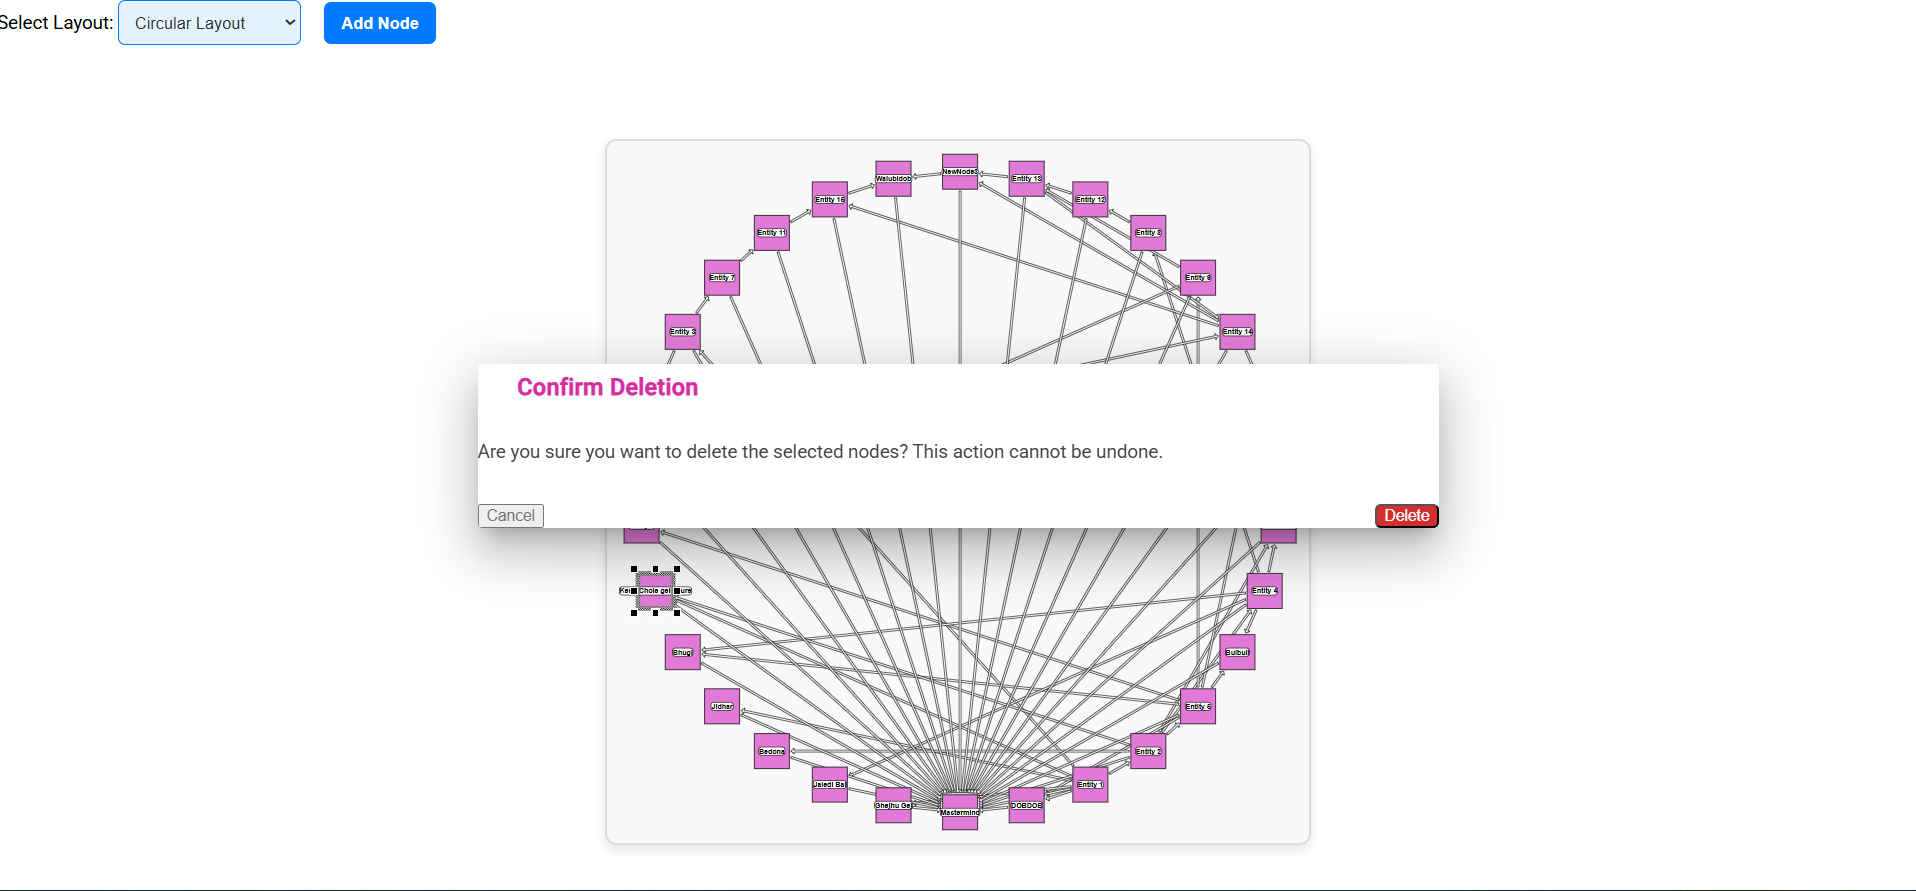
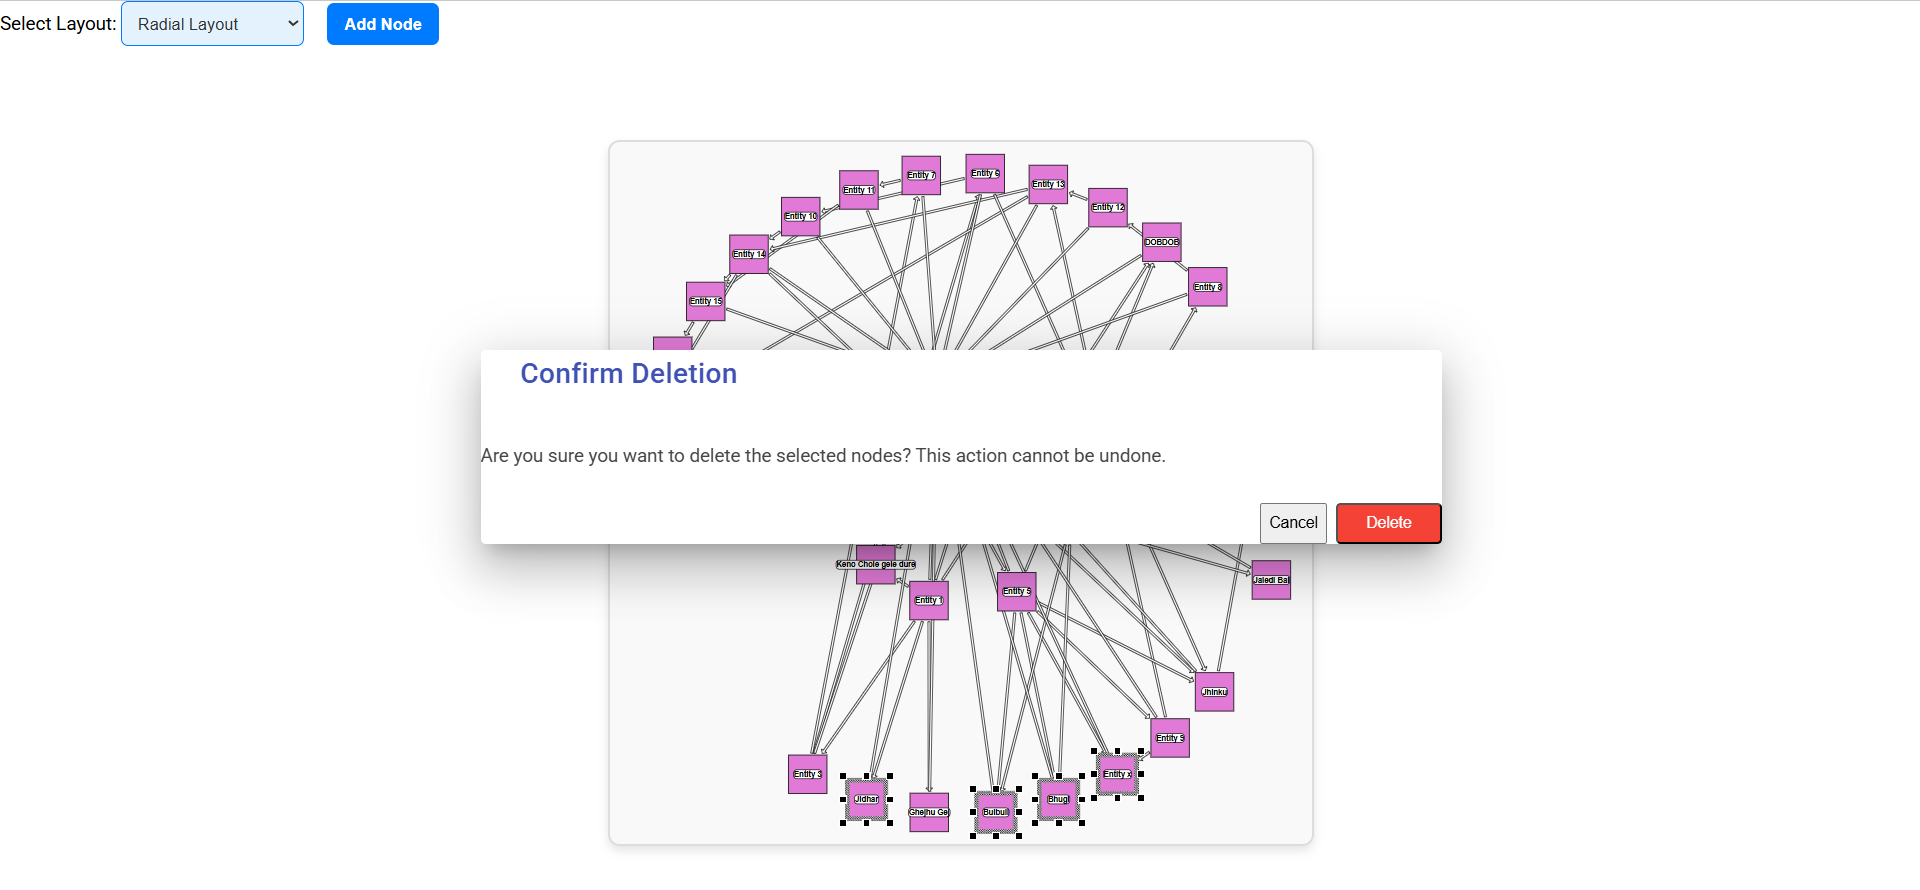
Delete nodes dialog modified, also some renaming in the dialog. change in the screenshot

diff --git a/client/src/app/delete-nodes-dialog/delete-nodes-dialog.component.css b/client/src/app/delete-nodes-dialog/delete-nodes-dialog.component.css
@@ -1,0 +1,111 @@
+/* Dialog Container */
+::ng-deep .mat-dialog-container {
+  display: flex;
+  flex-direction: column;
+  justify-content: center;
+  align-items: center;
+  min-height: 220px;
+  padding: 24px;
+  width: 400px;
+  border-radius: 8px;
+  background-color: #fff;
+  box-shadow: 0px 4px 10px rgba(0, 0, 0, 0.1);
+  text-align: center;
+}
+
+/* Title Styling */
+.dialog-title {
+  font-size: 24px;
+  font-weight: 500;
+  color: #3f51b5; /* Primary color */
+  margin-bottom: 16px;
+  display: flex;
+  align-items: center;
+  gap: 10px;
+}
+
+/* Warning Icon */
+.warning-icon {
+  font-size: 24px;
+  color: #d32f2f;
+}
+
+/* Content Styling */
+.dialog-content {
+  display: flex;
+  flex-direction: column;
+  gap: 16px;
+  font-size: 16px;
+  color: #444;
+  margin: 15px 0;
+  width: 100%;
+}
+
+/* Form Fields */
+.full-width {
+  width: 100%;
+}
+
+mat-form-field {
+  width: 100%;
+  margin-bottom: 16px;
+}
+
+mat-input {
+  font-size: 16px;
+}
+
+/* Error Messages */
+mat-error {
+  color: #f44336;
+  font-size: 14px;
+  margin-top: 4px;
+}
+
+/* Dropdown Styling */
+mat-select {
+  font-size: 16px;
+}
+
+/* Button Container */
+.dialog-actions {
+  display: flex;
+  justify-content: flex-end;
+  gap: 8px;
+  margin-top: 16px;
+  width: 100%;
+}
+
+/* Primary Button */
+button[color="primary"] {
+  background-color: #3f51b5;
+  color: white;
+  font-weight: 500;
+  padding: 8px 24px;
+  border-radius: 4px;
+  transition: background-color 0.3s ease;
+}
+
+button[color="primary"]:hover {
+  background-color: #303f9f;
+}
+
+button[color="primary"]:disabled {
+  background-color: #e0e0e0;
+  color: #9e9e9e;
+  cursor: not-allowed;
+}
+
+/* Warn Button (Cancel) */
+button[color="warn"] {
+  background-color: #f44336;
+  color: white;
+  font-weight: 500;
+  padding: 8px 24px;
+  border-radius: 4px;
+  transition: background-color 0.3s ease;
+}
+
+button[color="warn"]:hover {
+  background-color: #d32f2f;
+}

diff --git a/client/src/app/delete-nodes-dialog/delete-nodes-dialog.component.ts b/client/src/app/delete-nodes-dialog/delete-nodes-dialog.component.ts
@@ -1,0 +1,30 @@
+import { Component, Inject, OnInit } from '@angular/core';
+import { MAT_DIALOG_DATA, MatDialogModule, MatDialogRef } from '@angular/material/dialog';
+import { MatInputModule } from '@angular/material/input';
+import { FormControl, FormGroup, ReactiveFormsModule } from '@angular/forms';
+
+@Component({
+  selector: 'app-mat-dialog',
+  standalone: true,
+  imports: [MatDialogModule, MatInputModule, ReactiveFormsModule],
+  templateUrl: './delete-nodes-dialog.component.html',
+  styleUrl: './delete-nodes-dialog.component.css'
+})
+export class MatDialogComponent implements OnInit {
+  testForm !: FormGroup;
+  constructor(
+    private dialogRef: MatDialogRef<MatDialogComponent>,
+    @Inject(MAT_DIALOG_DATA) public data: any) { }
+
+  ngOnInit() {
+    this.testForm = new FormGroup({});
+  }
+  
+  onConfirm() {
+    this.dialogRef.close(true);
+  }
+
+  onCancel() {
+    this.dialogRef.close(false);
+  }
+}

diff --git a/client/src/app/services/graph.service.ts b/client/src/app/services/graph.service.ts
@@ -4,7 +4,7 @@ import { CircularLayout, HierarchicLayout, OrganicLayout, OrthogonalLayout, Radi
 import { ApiCallsService } from './api-calls.service';
 import { GraphData, Node, Ownership } from '../models/graph-data';
 import { MatDialog, MatDialogRef } from '@angular/material/dialog';
-import { MatDialogComponent } from '../mat-dialog/mat-dialog.component';
+import { MatDialogComponent } from '../delete-nodes-dialog/delete-nodes-dialog.component';
 
 @Injectable({
   providedIn: 'root'

diff --git a/client/src/app/delete-nodes-dialog/delete-nodes-dialog.component.html b/client/src/app/delete-nodes-dialog/delete-nodes-dialog.component.html
@@ -1,0 +1,10 @@
+<h2 mat-dialog-title class="dialog-title">
+  Confirm Deletion
+</h2>
+
+<p class="dialog-content">Are you sure you want to delete the selected nodes? This action cannot be undone.</p>
+
+<div class="dialog-actions">
+  <button mat-button class="cancel-btn" (click)="onCancel()">Cancel</button>
+  <button mat-button color="warn" class="confirm-btn" (click)="onConfirm()">Delete</button>
+</div>

diff --git a/client/src/app/Helpers/graph-control.ts b/client/src/app/Helpers/graph-control.ts
@@ -16,7 +16,11 @@ export class GraphControl {
 
   cleanUp() {
     this.graphComponent.cleanUp();
+    this.graphComponent.inputMode = null;
+    this.graphComponent.graph.clear();
+    this.graphComponent = null as any;
     //remove listeners;
+    this.itemsDeleting.complete();
   }
 
   createGraph(graphData: GraphData, elementId: string): void {

diff --git a/api/obj/Debug/net8.0/api.AssemblyInfo.cs b/api/obj/Debug/net8.0/api.AssemblyInfo.cs
@@ -13,7 +13,7 @@ using System.Reflection;
 [assembly: System.Reflection.AssemblyCompanyAttribute("api")]
 [assembly: System.Reflection.AssemblyConfigurationAttribute("Debug")]
 [assembly: System.Reflection.AssemblyFileVersionAttribute("1.0.0.0")]
-[assembly: System.Reflection.AssemblyInformationalVersionAttribute("1.0.0+61b42484496ac14a027c566055e7d8d631615438")]
+[assembly: System.Reflection.AssemblyInformationalVersionAttribute("1.0.0+bd8a0d8c3c18589cac8363a7bac2115d7605390f")]
 [assembly: System.Reflection.AssemblyProductAttribute("api")]
 [assembly: System.Reflection.AssemblyTitleAttribute("api")]
 [assembly: System.Reflection.AssemblyVersionAttribute("1.0.0.0")]
